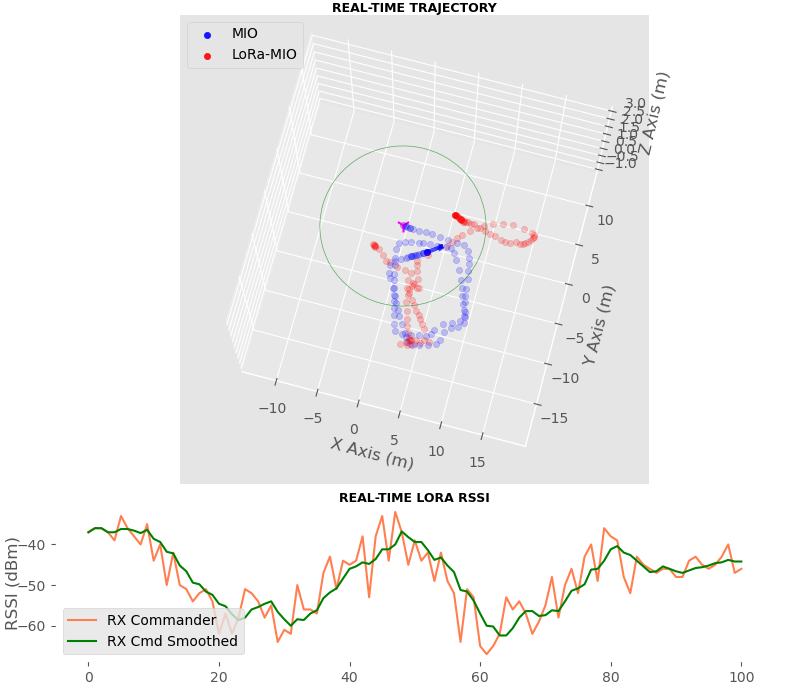
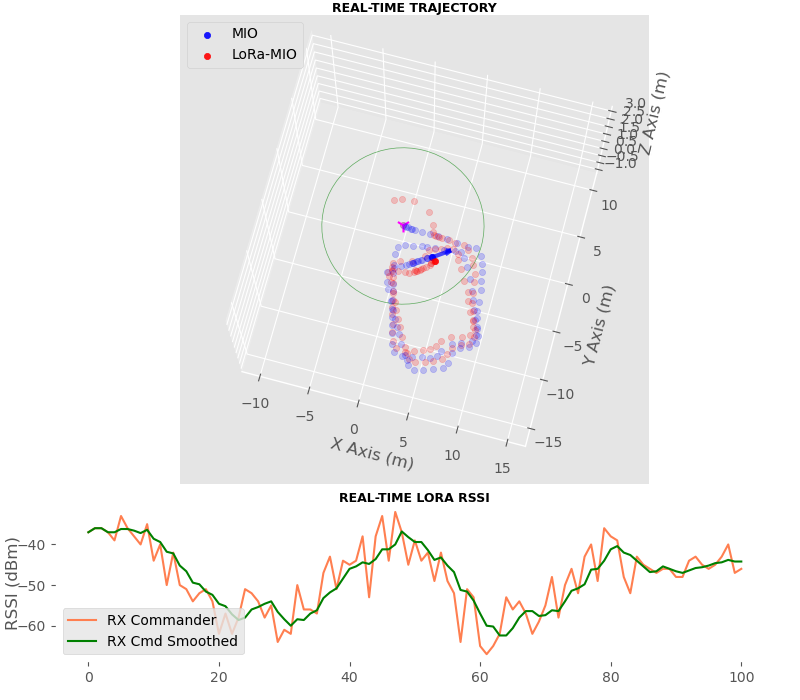
EKF_Origin working: path following

diff --git a/replay.py b/replay.py
@@ -61,7 +61,7 @@ class EKF_Fusion_MultiRX_ZYaw(EKF_Fusion):
             # Get Measurement
             final_pose = self.final_list[-g]
             final_xy = final_pose[:2]
-            final_xy.append(self.abs_yaw) #Add Yaw as measurement!
+            final_xy.append(self.abs_yaw[-1]) #Add Yaw as measurement!
             # Populate ONE Rssi for a 'gap' of Poses
             final_xy.append(float(self.rssi_list[-1]))
             z = np.asarray(final_xy, dtype=float).reshape(-1, 1)
@@ -252,7 +252,7 @@ class EKF_Fusion_PosVel(EKF_Fusion_MultiRX_AngularV):
             final_xyZ.append(final_pose[-1] * math.pi / 180)
             # Populate ONE Rssi for a 'gap' of Poses
             if self.anchor:
-                final_xyZ.append(self.smoother(self.rssi_list))
+                final_xyZ.append(float(self.smoothed_rssi_list[-1]))  # Utilize Smoothed RSSI for Fusion
             if self.rssi_list2:
                 final_xyZ.append(self.smoother(self.rssi_list2))
             if self.rssi_list3:
@@ -279,9 +279,12 @@ class EKF_Fusion_PosVel(EKF_Fusion_MultiRX_AngularV):
                                             1+math.cos(self.dt*w+math.atan2(vy,vx))*vx/(vx**2+vy**2), self.dt*math.cos(self.dt*w+math.atan2(vy,vx))],
                                            [0, 0, 0, 0, 1]])
 
-            # Insert Independent Random Accelerations to model Process Noise
-            q11, q22 = 1, 1
-            qk = np.array([[q11, 0], [0, q22]])
+            # Insert Independent Random Accelerations (a_x, a_y) to model Process Noise
+            mu = 0.
+            sigma = 0.1
+            a_x = np.random.normal(mu, sigma)
+            a_y = np.random.normal(mu, sigma)
+            qk = np.array([[sigma**2, 0], [0, sigma**2]])
             Gk = np.array([[self.dt**2/2, 0],
                            [0, self.dt**2/2],
                            [self.dt, 0],
@@ -336,7 +339,7 @@ class EKF_Fusion_ConstantA(EKF_Fusion_MultiRX_AngularV):
             final_xyZ.append(final_pose[-1] * math.pi/180)
             # Populate ONE Rssi for a 'gap' of Poses
             if self.anchor:
-                final_xyZ.append(self.smoother(self.rssi_list))
+                final_xyZ.append(float(self.smoothed_rssi_list[-1]))  # Utilize Smoothed RSSI for Fusion
             if self.rssi_list2:
                 final_xyZ.append(self.smoother(self.rssi_list2))
             if self.rssi_list3:
@@ -353,26 +356,30 @@ class EKF_Fusion_ConstantA(EKF_Fusion_MultiRX_AngularV):
             self.my_kf.R[1, 1] = 0.001  # self.sigma_list[-g][1]*1000
             self.my_kf.R[2, 2] = 0.0001  # self.sigma_list[-g][-1]**2 # Sigma of ROT_Z
             for rowcol in range(3, 3+self.anchor):
-                self.my_kf.R[rowcol, rowcol] = 0.2 * SIGMA**2
+                self.my_kf.R[rowcol, rowcol] = 0.5 * SIGMA**2
             # Refresh State Transition Martrix: F
             self.my_kf.F = eye(6) + array([[0, 0, -self.dt * self.my_kf.x[3, 0] * math.sin(self.my_kf.x[2, 0]) - 0.5*self.dt**2 * self.my_kf.x[5, 0] * math.sin(self.my_kf.x[2, 0]),
                                             self.dt * math.cos(self.my_kf.x[2, 0]), 0, 0.5*self.dt**2 * math.cos(self.my_kf.x[2, 0])],
                                            [0, 0, self.dt * self.my_kf.x[3, 0] * math.cos(self.my_kf.x[2, 0]) + 0.5*self.dt**2 * self.my_kf.x[5, 0] * math.sin(self.my_kf.x[2, 0]),
                                             self.dt * math.sin(self.my_kf.x[2, 0]), 0, 0.5*self.dt**2 * math.sin(self.my_kf.x[2, 0])],
                                            [0, 0, 0, 0, self.dt, 0],
-                                           [0, 0, 0, 0, 0, self.dt],
+                                           #[0, 0, 0, 0, 0, self.dt],
+                                           [0, 0, 0, 0, -self.dt**2*self.my_kf.x[5, 0]*math.sin(self.dt*self.my_kf.x[4, 0]), self.dt*math.cos(self.dt*self.my_kf.x[4, 0])],
                                            [0, 0, 0, 0, 0, 0],
                                            [0, 0, 0, 0, 0, 0]])
 
-            # Insert Independent Random Accelerations to model Process Noise
+            # Insert Independent Random Accelerations scalar, q, to model Process Noise
             tk = 0.1*len(self.path)
-            qk = 0.005*np.random.rand()*abs(math.sin(2*math.pi*tk))
+            #qk = 0.005*np.random.rand()*abs(math.sin(2*math.pi*tk))
+            mu, sigma = 0., 0.0001
+            a = np.random.normal(0, sigma)
+            qk = sigma**2
             Gk = np.array([[0.5 * self.dt ** 2 * math.cos(self.my_kf.x[2, 0])],
                            [0.5 * self.dt ** 2 * math.sin(self.my_kf.x[2, 0])],
                            [0],
                            [self.dt],
                            [0],
-                           [1]]) * qk
+                           [1]])
             self.my_kf.Q = np.dot(Gk, qk).dot(Gk.transpose())
             #print(self.my_kf.Q)
             '''
@@ -394,6 +401,58 @@ class EKF_Fusion_ConstantA(EKF_Fusion_MultiRX_AngularV):
             # print("EKF per round takes %.6f s" % (time.time() - start_t))
 
 
+class EKF_Origin(EKF_Fusion_MultiRX_AngularV):
+    def __init__(self, anchor, dt=0.1, visual=True):
+        # Xk = [x, y, theta]
+        super().__init__(anchor=anchor, dt=dt, dim_x=3, visual=visual)
+        # State Transition Martrix: F
+        self.my_kf.F = eye(3)
+
+        # TWEEK PARAMS
+        self.my_kf.x = np.array([-0.1, 0.1, 0.]).reshape(-1, 1)
+        # Error Cov of Initial State
+        self.my_kf.P = np.diag(np.array([1.0, 1.0, 0.1]))
+        # Process Noise Cov
+        self.my_kf.Q = np.diag(np.array([0.01, 0.01, 0.0001]))
+
+    def rt_run(self, gap):
+
+        for g in range(gap, 0, -1):
+            start_t = time.time()
+            # Get Measurement [ABS_X, ABS_Y, ABS_YAW('Rad')]
+            final_xyZ = [self.abs_x[-g], self.abs_y[-g], self.abs_yaw[-1]]
+            # Populate ONE Rssi for a 'gap' of Poses
+            if self.anchor:
+                final_xyZ.append(float(self.smoothed_rssi_list[-1]))  # Utilize Smoothed RSSI for Fusion
+            if self.rssi_list2:
+                final_xyZ.append(self.smoother(self.rssi_list2))
+            if self.rssi_list3:
+                final_xyZ.append(self.smoother(self.rssi_list3))
+
+            z = np.asarray(final_xyZ, dtype=float).reshape(-1, 1)
+            #print("Measurement z: ", z)
+            # TODO Add data integraty check: X+ value explodes
+
+            # Refresh Measurement noise R
+            self.my_kf.R[0, 0] = 0.1  # ABS_X
+            self.my_kf.R[1, 1] = 0.1  # ABS_Y
+            self.my_kf.R[2, 2] = 0.0001  # ABS_YAW
+            for rowcol in range(3, 3+self.anchor):
+                self.my_kf.R[rowcol, rowcol] = 0.1 * SIGMA**2
+
+            # PREDICTION
+            self.my_kf.predict()
+            #print("X-:\n", self.my_kf.x)
+
+            # UPDATE
+            self.my_kf.update(z, HJacobian_Origin, hx_Origin, args=(self.anchor), hx_args=(self.anchor))
+
+            # Log Posterior State x
+            self.xs.append(self.my_kf.x)
+            #print("X+:\n", self.my_kf.x)
+            # print("EKF per round takes %.6f s" % (time.time() - start_t))
+
+
 
 def synthetic_rssi(data_len, period=1., Amp=20., phase=0., mean=-43., noiseAmp=0.2):
     rssi_x = np.arange(0, data_len).tolist()
@@ -407,8 +466,9 @@ def synthetic_rssi(data_len, period=1., Amp=20., phase=0., mean=-43., noiseAmp=0
 
 
 if __name__=="__main__":
-    
-    ekf = EKF_Fusion_ConstantA(anchor=1)
+
+    ekf = EKF_Origin(anchor=0)
+    #ekf = EKF_Fusion_ConstantA(anchor=1)
     #ekf = EKF_Fusion_PosVel(anchor=0)
 
     # TODO Sync Multiple RX RSSIs and Replay

diff --git a/EKF.py b/EKF.py
@@ -25,7 +25,7 @@ R1 = np.array([[0., 0., 0.],
                [5., 4., 0.],
                [2., -2.5, 0.]])
 # Path Loss Model params
-ALPHA = -50#-45.712  # -28.57 * 1.6
+ALPHA = -55#-45.712  # -28.57 * 1.6
 BETA = -5.06
 SIGMA = 4.887
 
@@ -262,6 +262,42 @@ def hx_PosVel(x, anchor=1):
     return h
 
 
+def HJacobian_Origin(x, anchor=1):
+    """ compute Jacobian of H matrix for state x """
+    dt = .1
+    X = x[0, 0]
+    Y = x[1, 0]
+    theta = x[2, 0]
+    a = ALPHA * math.log10(math.e)
+    # HJabobian in (3, 3) if ZERO LoRa RX; (6, 3) if THREE LoRa RXs available
+    Jacob = eye(3)
+    for row in range(0, anchor):
+        denom = (X - R1[row, 0]) ** 2 + (Y - R1[row, 1]) ** 2
+        if denom < 0.01:
+            denom = 0.01
+        Jacob = np.vstack((Jacob, array([[a * (X - R1[row, 0]) / denom, a * (Y - R1[row, 1]) / denom, 0]])))
+
+    # print("HJacobian return: ", Jacob)
+    return Jacob
+
+
+def hx_Origin(x, anchor=1):
+    """ compute measurement of [X, Y, ROT_Z, RSSIs...]^T that would correspond to state x.
+    """
+    dt = .1
+    h = array([x[0, 0], x[1, 0], x[2, 0]]).reshape((-1, 1))
+    for row in range(0, anchor):
+        dis = np.linalg.norm(x[:2, 0] - R1[row, :2])
+        thres_dis = 0.1
+        if dis > thres_dis:
+            rssi = ALPHA * math.log10(dis) + BETA
+        else:
+            rssi = ALPHA * math.log10(thres_dis) + BETA
+        # Measurement comprises (X, Y, Rot_Z, RSSIs...)
+        h = np.vstack((h, array([[rssi]])))
+    # print("hx return shape: ", h.shape)
+    return h
+
 
 class Simu(object):
     """ Simulates the Path in 2D.
@@ -389,7 +425,7 @@ class EKF_Fusion():
         self.time = []
         self.path = []
         self.path_ekf = []
-        self.abs_yaw = 0
+        self.abs_x, self.abs_y, self.abs_yaw = [], [], []
         
         
     def new_measure(self, *args, **kwargs):
@@ -405,7 +441,8 @@ class EKF_Fusion():
             msg_list = msg_list[:-self.anchor]
 
         self.rssi_list.extend(rssis)
-        self.smoothed_rssi_list.append(self.smoother(self.rssi_list))
+        if self.anchor:
+            self.smoothed_rssi_list.append(self.smoother(self.rssi_list))
         if self.anchor >= 2:
             self.rssi_list2.append(rssis[1])
         if self.anchor >= 3:
@@ -428,25 +465,30 @@ class EKF_Fusion():
             
             #pos.odom_quat = tf.transformations.quaternion_from_matrix(pos.pred_transform_t_1)
             #print(pos.odom_quat)
+            # Compute ABS_POSE
+            self.abs_x.append(abs_pred_transform[0, 3])
+            self.abs_y.append(abs_pred_transform[1, 3])
+
+            euler_rot = np.array([[abs_pred_transform[0, 0], abs_pred_transform[0, 1], abs_pred_transform[0, 2]],
+                                  [abs_pred_transform[1, 0], abs_pred_transform[1, 1], abs_pred_transform[1, 2]],
+                                  [abs_pred_transform[2, 0], abs_pred_transform[2, 1], abs_pred_transform[2, 2]]],
+                                 dtype=float)
+            # euler_rad = (yaw, pitch, roll)
+            euler_rad = mat2euler(euler_rot)
+            self.abs_yaw.append(euler_rad[0])
+            # print("Current Eular = ", euler_rad)
+            self.odom_quat = np.array(euler2quat(euler_rad[0], euler_rad[1], euler_rad[2]))
+            # print("Current Quaternion = ", self.odom_quat)
+
         gap = int(len(msg_list)/len_pose)
         #print(self.out_pred_array[-1])
-        
-        euler_rot = np.array([[abs_pred_transform[0, 0], abs_pred_transform[0, 1], abs_pred_transform[0, 2]],
-                              [abs_pred_transform[1, 0], abs_pred_transform[1, 1], abs_pred_transform[1, 2]],
-                              [abs_pred_transform[2, 0], abs_pred_transform[2, 1], abs_pred_transform[2, 2]]], dtype=float)
-        # euler_rad = (yaw, pitch, roll)
-        euler_rad = mat2euler(euler_rot)
-        self.abs_yaw = euler_rad[0]
-        #print("Current Eular = ", euler_rad)
-        self.odom_quat = np.array(euler2quat(euler_rad[0], euler_rad[1], euler_rad[2]))
-        #print("Current Quaternion = ", self.odom_quat)
-        
+
         # Unit Vector from Eular Angle; Simplify Orientation Representation by Pitch = 0
-        self.U = math.cos(self.abs_yaw)#math.cos(euler_rad[0])*math.cos(euler_rad[1])
-        self.V = math.sin(self.abs_yaw)#math.sin(euler_rad[0])*math.cos(euler_rad[1])
-        self.W = 0#math.sin(euler_rad[1])
+        self.U = math.cos(self.abs_yaw[-1])#math.cos(euler_rad[0])*math.cos(euler_rad[1])
+        self.V = math.sin(self.abs_yaw[-1])#math.sin(euler_rad[0])*math.cos(euler_rad[1])
+        self.W = 0  #math.sin(euler_rad[1])
         
-        self.path.append([abs_pred_transform[0, 3], abs_pred_transform[1, 3], 0])
+        self.path.append([self.abs_x[-1], self.abs_y[-1], 0])
         
         print("Elapsed time PoseTransform = ", time.time() - start_t)
         start_t = time.time()
@@ -454,7 +496,7 @@ class EKF_Fusion():
         # Trigger EKF
         self.rt_run(gap)
         print("Elapsed time of EKF = ", time.time() - start_t)
-        print("ABS_YAW: %.3f (=%.3f OR %.3f)" % (self.abs_yaw, self.abs_yaw-2*math.pi, self.abs_yaw-4*math.pi))
+        print("ABS_YAW: %.3f (=%.3f OR %.3f)" % (self.abs_yaw[-1], self.abs_yaw[-1] - 2*math.pi, self.abs_yaw[-1] - 4*math.pi))
         print("State X:\n", self.my_kf.x)
 
         if self.visual:
@@ -613,7 +655,7 @@ class EKF_Fusion():
         # Not Attempting to Visual EKF Updated Orientation
         #self.handle_arrw_ekf = self.ax21.quiver([self.my_kf.x[0, 0]], [self.my_kf.x[1, 0]], [self.my_kf.x[2, 0]], self.U_ekf, self.V_ekf, self.W_ekf, color='r', length=1., alpha=.7)
         # Manually Equal Axis and Limit
-        self.ax21.auto_scale_xyz([-12, 18], [-18, 12], [-1, 3])
+        self.ax21.auto_scale_xyz([-10, 15], [-15, 10], [-1, 3])
 
         # Plot Range
         if self.anchor:

diff --git a/PF.py b/PF.py
@@ -243,7 +243,8 @@ class PF_Fusion():
             msg_list = msg_list[:-self.anchor]
 
         self.rssi_list.extend(rssis)
-        self.smoothed_rssi_list.append(self.smoother(self.rssi_list))
+        if self.anchor:
+            self.smoothed_rssi_list.append(self.smoother(self.rssi_list))
         if self.anchor >= 2:
             self.rssi_list2.append(rssis[1])
         if self.anchor >= 3:

diff --git a/README.md b/README.md
@@ -14,7 +14,7 @@ Two rounds of left-hand search:
 
 ### Extended Kalman Filter
 
-Two rounds of left-hand search with Constant-Angular-Velocity-and-Acceleration EKF which is decoupled from RSSI-based range:
+Two rounds of left-hand search with RSSI-decoupled EKF which uses absolute 2D poses as measurement:
 
 ![live_plot](https://github.com/zdai257/LoRaRX/blob/main/demo1.png)
 
